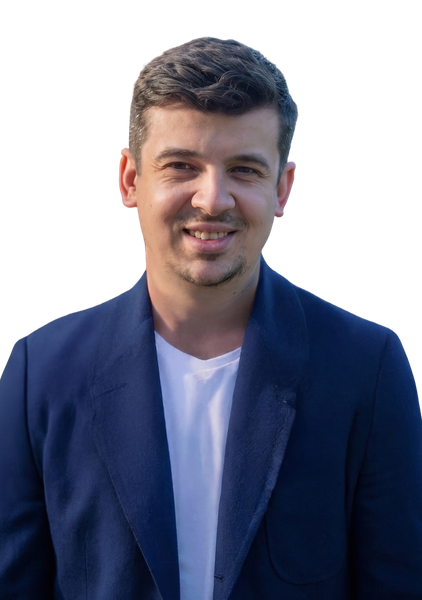
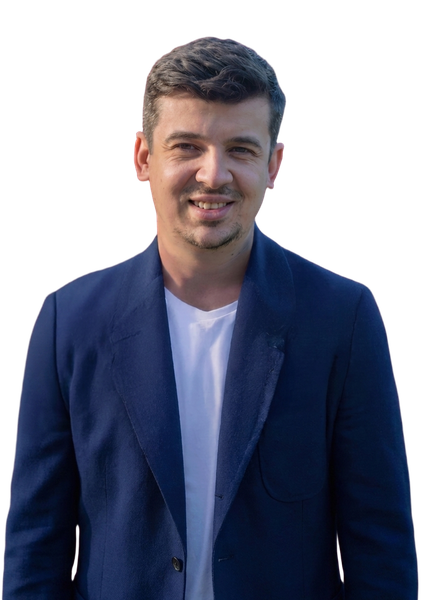
fix(o-nas): re-cut six clipped portraits, make the peer wash atomic
Six slider cutouts had an arm or shoulder flat-cut at the frame's side
edge — three of them terminating mid-frame, which reads as an amputation
on the plum band. The same files fill the homepage grid tiles, so the
defect showed on both surfaces. Replaced, and the framing-integrity rules
they broke are now normative in the spec.

Separately, the peers' plum wash was an `::after` masked with the raw
/o-nas/slider/*.png. That is not the URL the <img> or the off-screen
warmers fetch — they use the optimized variant — so the mask was the one
resource on the page nobody had warmed. On a cold cache the photo painted
seconds ahead of it and the peer flashed full colour before snapping to
plum, which the homepage `?lama=` deep link exposed.

The wash is now a second <Image> with props identical to the photo's, so
both resolve to one optimized URL and one cache entry, flattened to the
wash colour by an inline feColorMatrix (zeroed RGB rows, alpha passed
through). It cannot lag the photo it tints: they are the same bytes.

Verified in Chromium and WebKit — zero raw PNG requests across a cold
deep link plus all fifteen steps, and no unwashed frame at any point.

diff --git a/app/(frontend)/o-nas/sections/team/index.tsx b/app/(frontend)/o-nas/sections/team/index.tsx
@@ -44,6 +44,26 @@ const CERT_MARKS = {
   meta: { src: '/assets/certs/meta.png', width: 627, height: 345 },
 } as const
 
+// The background peers are washed by re-drawing the peer's own photo through
+// this filter (see Peer). Kept in sync with `.peerWash`'s `filter: url(...)` in
+// team.module.css — the id is a plain literal in this file rather than an
+// import, so nothing has to reach through a 'use client' barrel to name it.
+const PEER_WASH_FILTER_ID = 'onas-peer-wash'
+
+// Every cutout render — warmers, featured, peers and their washes — asks for
+// the same variant, and shares one declaration so it stays that way. Peers are
+// displayed smaller than the featured slot but request its bucket anyway, so a
+// promoted neighbour reuses the already-fetched variant; the warmers fetch that
+// same bucket up front; and the wash layer depends on it outright, since an
+// identical src/sizes pair is what resolves to one URL and one cache entry.
+const CUTOUT_IMAGE_PROPS = {
+  alt: '',
+  fill: true,
+  objectFit: 'contain',
+  mobileSize: '60vw',
+  desktopSize: '30vw',
+} as const
+
 type Member = LocalizedONas['oNasTeam']['members'][number]
 
 // The cutout filename stem ('/o-nas/slider/anna-ozga.png' -> 'anna-ozga') — the
@@ -102,16 +122,45 @@ export function Team({ content }: { content: LocalizedONas['oNasTeam'] }) {
           <Image
             key={m.photo}
             src={m.photo}
-            alt=""
-            fill
-            objectFit="contain"
-            mobileSize="60vw"
-            desktopSize="30vw"
+            {...CUTOUT_IMAGE_PROPS}
             loading="eager"
           />
         ))}
       </div>
+
+      <PeerWashFilter />
     </section>
+  )
+}
+
+/*
+ * The peer duotone, as a filter rather than a mask.
+ *
+ * Zeroed RGB rows with constant offsets discard every pixel's colour and
+ * replace it with one flat value; the alpha row passes through untouched, so
+ * the figure's own silhouette survives and gets filled — exactly what the old
+ * `::after` + `mask-image` produced, but computed from pixels the page has
+ * already loaded (see Peer for why that matters).
+ *
+ * The offsets are `color-mix(in srgb, var(--color-primary) 60%, #d1568c)`
+ * resolved against the plum theme (`--color-primary: #913155`) → rgb(170.6,
+ * 63.8, 107), divided by 255. They are baked, not live: if brand plum moves,
+ * re-derive them here.
+ *
+ * `color-interpolation-filters="sRGB"` is load-bearing — the SVG default is
+ * linearRGB, which would read these sRGB offsets in linear space and paint the
+ * wash markedly lighter than the colour it replaces.
+ */
+function PeerWashFilter() {
+  return (
+    <svg className={s.filterDefs} aria-hidden="true" role="presentation">
+      <filter id={PEER_WASH_FILTER_ID} colorInterpolationFilters="sRGB">
+        <feColorMatrix
+          type="matrix"
+          values="0 0 0 0 0.6690  0 0 0 0 0.2502  0 0 0 0 0.4196  0 0 0 1 0"
+        />
+      </filter>
+    </svg>
   )
 }
 
@@ -312,8 +361,7 @@ function Slider({
 
 // One coverflow trio (featured + two plum-tinted neighbours). Purely decorative
 // — every image is alt="" — so the whole group can be aria-hidden while it fades
-// out. Peers request the same size bucket as the featured slot (displayed
-// smaller) so a promoted neighbour reuses the already-fetched variant.
+// out.
 function Trio({
   featured,
   leftPeer,
@@ -329,45 +377,41 @@ function Trio({
 }) {
   return (
     <div className={className} aria-hidden={hidden || undefined}>
-      <span
-        className={cn(s.photo, s.peer, s.peerLeft)}
-        style={{ '--peer-src': `url(${leftPeer.photo})` }}
-        aria-hidden="true"
-      >
-        <Image
-          src={leftPeer.photo}
-          alt=""
-          fill
-          objectFit="contain"
-          mobileSize="60vw"
-          desktopSize="30vw"
-        />
-      </span>
-      <span
-        className={cn(s.photo, s.peer, s.peerRight)}
-        style={{ '--peer-src': `url(${rightPeer.photo})` }}
-        aria-hidden="true"
-      >
-        <Image
-          src={rightPeer.photo}
-          alt=""
-          fill
-          objectFit="contain"
-          mobileSize="60vw"
-          desktopSize="30vw"
-        />
-      </span>
+      <Peer member={leftPeer} side={s.peerLeft} />
+      <Peer member={rightPeer} side={s.peerRight} />
       <span className={cn(s.photo, s.featured)}>
-        <Image
-          src={featured.photo}
-          alt=""
-          fill
-          objectFit="contain"
-          mobileSize="60vw"
-          desktopSize="30vw"
-        />
+        <Image src={featured.photo} {...CUTOUT_IMAGE_PROPS} />
       </span>
     </div>
+  )
+}
+
+// A background neighbour: the photo, and over it the very same image drawn a
+// second time through PeerWashFilter, which is what tints it.
+//
+// The two layers deliberately share every prop, so they resolve to one
+// optimized URL and one cache entry: the wash cannot paint later than the photo
+// it is meant to cover, because they are the same bytes. The mask this replaced
+// pointed at the raw `/o-nas/slider/*.png` — a resource nothing else on the
+// page loads — so on a cold cache the photo arrived first and the peer flashed
+// full-colour before snapping to plum.
+function Peer({
+  member,
+  side,
+}: {
+  member: Member
+  /** `.peerLeft` / `.peerRight` — the CSS-module lookup that places it. */
+  side: string | undefined
+}) {
+  return (
+    <span className={cn(s.photo, s.peer, side)} aria-hidden="true">
+      <Image src={member.photo} {...CUTOUT_IMAGE_PROPS} />
+      <Image
+        src={member.photo}
+        {...CUTOUT_IMAGE_PROPS}
+        className={s.peerWash}
+      />
+    </span>
   )
 }
 

diff --git a/app/(frontend)/o-nas/sections/team/team.module.css b/app/(frontend)/o-nas/sections/team/team.module.css
@@ -196,22 +196,26 @@
   filter: saturate(0.6);
 }
 
-/* The wash is a magenta fill masked to the figure's own silhouette (its cutout
-   alpha), matching the img beneath it (same contain/bottom placement). */
-.peer::after {
-  content: "";
-  position: absolute;
-  inset: 0;
-  background: color-mix(in srgb, var(--color-primary) 60%, #d1568c);
+/* The wash: a second copy of the peer's own photo (same optimized URL, so it is
+   never a frame behind), flattened to a magenta fill by the SVG filter defined
+   in index.tsx. Alpha survives the colour matrix, so the fill takes the
+   figure's own silhouette — what the old `mask-image` did, without pointing at
+   a raw PNG nothing else on the page fetches.
+
+   The id must match PEER_WASH_FILTER_ID in index.tsx. Sitting under `.peer`, it
+   inherits that layer's `saturate(0.6)` / `opacity: 0.9` exactly as the
+   `::after` did. */
+.peerWash {
   opacity: 0.66;
-  -webkit-mask-image: var(--peer-src);
-  mask-image: var(--peer-src);
-  -webkit-mask-size: contain;
-  mask-size: contain;
-  -webkit-mask-position: bottom;
-  mask-position: bottom;
-  -webkit-mask-repeat: no-repeat;
-  mask-repeat: no-repeat;
+  filter: url("#onas-peer-wash");
+}
+
+/* Holds the wash filter def only. Zero-sized rather than `display: none`:
+   WebKit will not resolve `filter: url(#…)` into an undisplayed subtree. */
+.filterDefs {
+  position: absolute;
+  width: 0;
+  height: 0;
 }
 
 .peerLeft {

diff --git a/openspec/specs/onas-team/spec.md b/openspec/specs/onas-team/spec.md
@@ -71,7 +71,7 @@ Bios SHALL be written in the third person throughout. The source document mixes 
 
 ### Requirement: Every member has a transparent, crop-matched portrait cutout
 
-All 12 members SHALL have a transparent-background PNG cutout under `/public/o-nas/slider/`, consistent in framing (head+torso crop, orientation) and comparable in file weight (~300 KB target, optimized). The same cutouts fill the homepage grid's full-bleed portrait tiles, so a framing defect is visible on both surfaces.
+All members SHALL have a transparent-background PNG cutout under `/public/o-nas/slider/`, consistent in framing (head+torso crop, orientation), comparable in file weight (~300 KB target, optimized), and obeying the framing-integrity rules: the subject bleeds off the frame's bottom edge; the frame's side edges may only be touched below elbow height (hip/torso rows); and no limb may exit a side edge and terminate before the bottom of the frame. The same cutouts fill the homepage grid's full-bleed portrait tiles, so a framing defect is visible on both surfaces.
 
 #### Scenario: Cutouts exist and are transparent PNGs
 
@@ -80,13 +80,28 @@ All 12 members SHALL have a transparent-background PNG cutout under `/public/o-n
 
 #### Scenario: Framing is consistent across the roster
 
-- **WHEN** all 12 cutouts are viewed together
+- **WHEN** all cutouts are viewed together
 - **THEN** crop, scale, and orientation read as one consistent set, with no member visibly mis-scaled or differently framed
 
 #### Scenario: No member is excluded for missing artwork
 
 - **WHEN** the slider renders
-- **THEN** all 12 members are present — no member is commented out or skipped pending a usable photo
+- **THEN** every member is present — no member is commented out or skipped pending a usable photo
+
+#### Scenario: Subject is grounded on the bottom edge
+
+- **WHEN** a cutout's bottom pixel row is inspected
+- **THEN** it carries subject alpha — the figure bleeds off the frame rather than floating above it
+
+#### Scenario: No high side cuts
+
+- **WHEN** a cutout's left and right edge columns are inspected
+- **THEN** any subject alpha on them sits below elbow height, reading as a deliberate hip/torso bleed rather than a cut arm or shoulder
+
+#### Scenario: No mid-frame amputations
+
+- **WHEN** subject alpha touches a side edge
+- **THEN** that contact run extends to the frame's bottom edge — a limb never exits the side and ends mid-frame
 
 ### Requirement: EN locale mirrors the team content
 
@@ -312,4 +327,18 @@ hydrated visit.
   disabled
 - **THEN** the team section is present and complete, featuring the first
   member, exactly as before this change
+
+### Requirement: The peer wash is atomic with the peer photo
+
+The plum duotone wash on the slider's background peers SHALL be derived from the same loaded resource as the peer photo itself, so that a peer can never paint unwashed and acquire the wash later. This holds at every cache temperature, including the first cold-cache paint after a homepage `?lama=` deep link.
+
+#### Scenario: Cold-cache deep link paints washed peers
+
+- **WHEN** a visitor with an empty cache clicks a homepage team-grid member and lands on `/o-nas?lama=<slug>#zespol`
+- **THEN** the two neighbour figures are plum-washed from their first painted frame, with no full-colour flash
+
+#### Scenario: Stepping fetches no wash-only resources
+
+- **WHEN** the visitor steps the slider through the full roster with the network log open
+- **THEN** no request is issued whose only purpose is the wash (e.g. a raw cutout fetched as a mask) — the wash reuses the photo's own bytes
 

diff --git a/openspec/changes/archive/2026-08-11-refine-team-slider/tasks.md b/openspec/changes/archive/2026-08-11-refine-team-slider/tasks.md
@@ -21,15 +21,22 @@
 
 ## 3. Peer-wash fix (code)
 
-- [ ] 3.1 Add the inline SVG `feColorMatrix` filter def (flat wash colour, alpha preserved; id outside any `'use client'` barrel; matrix constants commented as derived from the plum tokens)
-- [ ] 3.2 In `Trio`, replace the `--peer-src` style with a stacked wash `<Image>` per peer — identical `src`/`fill`/`sizes` props to the photo layer
-- [ ] 3.3 Replace `.peer::after` mask rules with wash-layer rules (`opacity: 0.66`; photo layer keeps `saturate(0.6)`/`opacity: 0.9`)
-- [ ] 3.4 Delete the now-unused `--peer-src` plumbing
+- [x] 3.1 Add the inline SVG `feColorMatrix` filter def (flat wash colour, alpha preserved; id outside any `'use client'` barrel; matrix constants commented as derived from the plum tokens)
+- [x] 3.2 In `Trio`, replace the `--peer-src` style with a stacked wash `<Image>` per peer — identical `src`/`fill`/`sizes` props to the photo layer
+- [x] 3.3 Replace `.peer::after` mask rules with wash-layer rules (`opacity: 0.66`; photo layer keeps `saturate(0.6)`/`opacity: 0.9`)
+- [x] 3.4 Delete the now-unused `--peer-src` plumbing
 
 ## 4. Verification
 
-- [ ] 4.1 Cold-cache deep link (home team grid → `/o-nas?lama=…#zespol`): peers paint washed on their first frame — throttled network, Chromium
-- [ ] 4.2 Same check in WebKit (`filter: url(#…)` support; Safari-is-not-optional rule)
-- [ ] 4.3 Step the slider through all 15: washes swap with the photos, no raw `/o-nas/slider/*.png` requests appear in the network log
-- [ ] 4.4 Screenshot both surfaces (slider + homepage grid) for the six replaced portraits; compare against the approved contact sheet
-- [ ] 4.5 `bun run check` and e2e suite green
+- [x] 4.1 Cold-cache deep link (home team grid → `/o-nas?lama=…#zespol`): peers paint washed on their first frame — throttled network, Chromium. 40-frame burst; every frame with the peer visible measures within 2/255 of the settled wash, against a 37/255 gap to the wash-suppressed baseline
+- [x] 4.2 Same check in WebKit (`filter: url(#…)` support; Safari-is-not-optional rule) — filter resolves, peer washed on its first painted frame, settled colour within 0.6/255 of Chromium. The def `<svg>` is zero-sized rather than `display: none`, which WebKit will not resolve into
+- [x] 4.3 Step the slider through all 15: 30/30 peer layer pairs share one `currentSrc`; zero raw `/o-nas/slider/*.png` requests in either engine (1 stray request across 15 Chromium steps — the warmers hold the variant)
+- [x] 4.4 Screenshot both surfaces (slider + homepage grid) for the six replaced portraits; re-measured alpha edges on the shipped files — all six pass bottom-bleed / no-high-side-cut / no-mid-frame-termination. Published: https://claude.ai/code/artifact/34e2a6cf-7903-450a-b394-a72320fe090d
+- [x] 4.5 `bun run check` green (exit 0 — 648 unit tests, typecheck, manifest; the Biome
+      panics are the five known pre-existing ones). e2e: 75 passed, 4 skipped, 1 failed —
+      `sitemap-crawl.e2e.ts` on 400s from case-study media
+      (`/case-studies/{kbp,luisse,mmhygienic,fundacja-saventic,imid-cmv}` + their `/en`
+      twins). **Accepted by the user as the known standing local-only failure.** No
+      `/o-nas` route failed and case-study pages do not render the team section; it does
+      not reproduce on demand once the dev image cache is warm, so it was not isolated
+      with a before/after run.

diff --git a/openspec/changes/archive/2026-08-11-refine-team-slider/specs/onas-team/spec.md b/openspec/changes/archive/2026-08-11-refine-team-slider/specs/onas-team/spec.md
@@ -1,6 +1,6 @@
 ## MODIFIED Requirements
 
-### Requirement: Every member has a transparent, frame-respecting portrait cutout
+### Requirement: Every member has a transparent, crop-matched portrait cutout
 
 All members SHALL have a transparent-background PNG cutout under `/public/o-nas/slider/`, consistent in framing (head+torso crop, orientation), comparable in file weight (~300 KB target, optimized), and obeying the framing-integrity rules: the subject bleeds off the frame's bottom edge; the frame's side edges may only be touched below elbow height (hip/torso rows); and no limb may exit a side edge and terminate before the bottom of the frame. The same cutouts fill the homepage grid's full-bleed portrait tiles, so a framing defect is visible on both surfaces.
 
@@ -8,6 +8,16 @@ All members SHALL have a transparent-background PNG cutout under `/public/o-nas/
 
 - **WHEN** the slider or the homepage grid references a member's cutout
 - **THEN** the file exists under `/public/o-nas/slider/`, is a PNG with an alpha channel, and its background is removed
+
+#### Scenario: Framing is consistent across the roster
+
+- **WHEN** all cutouts are viewed together
+- **THEN** crop, scale, and orientation read as one consistent set, with no member visibly mis-scaled or differently framed
+
+#### Scenario: No member is excluded for missing artwork
+
+- **WHEN** the slider renders
+- **THEN** every member is present — no member is commented out or skipped pending a usable photo
 
 #### Scenario: Subject is grounded on the bottom edge
 
